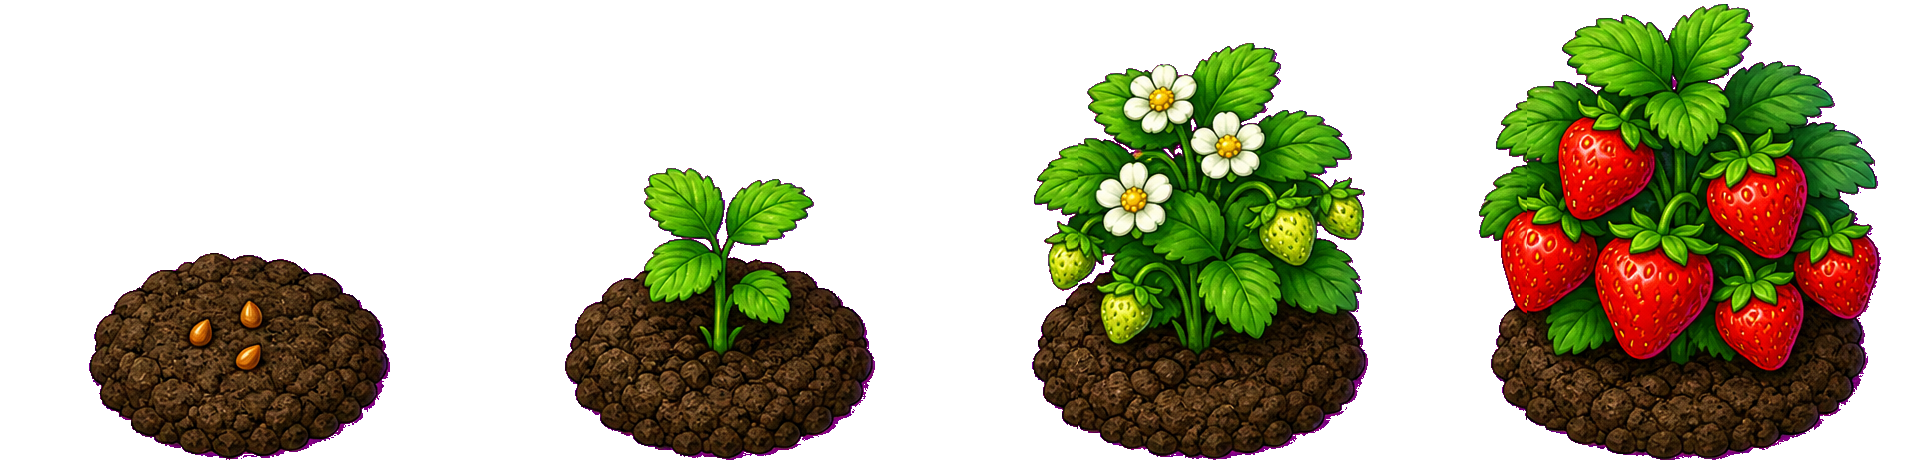
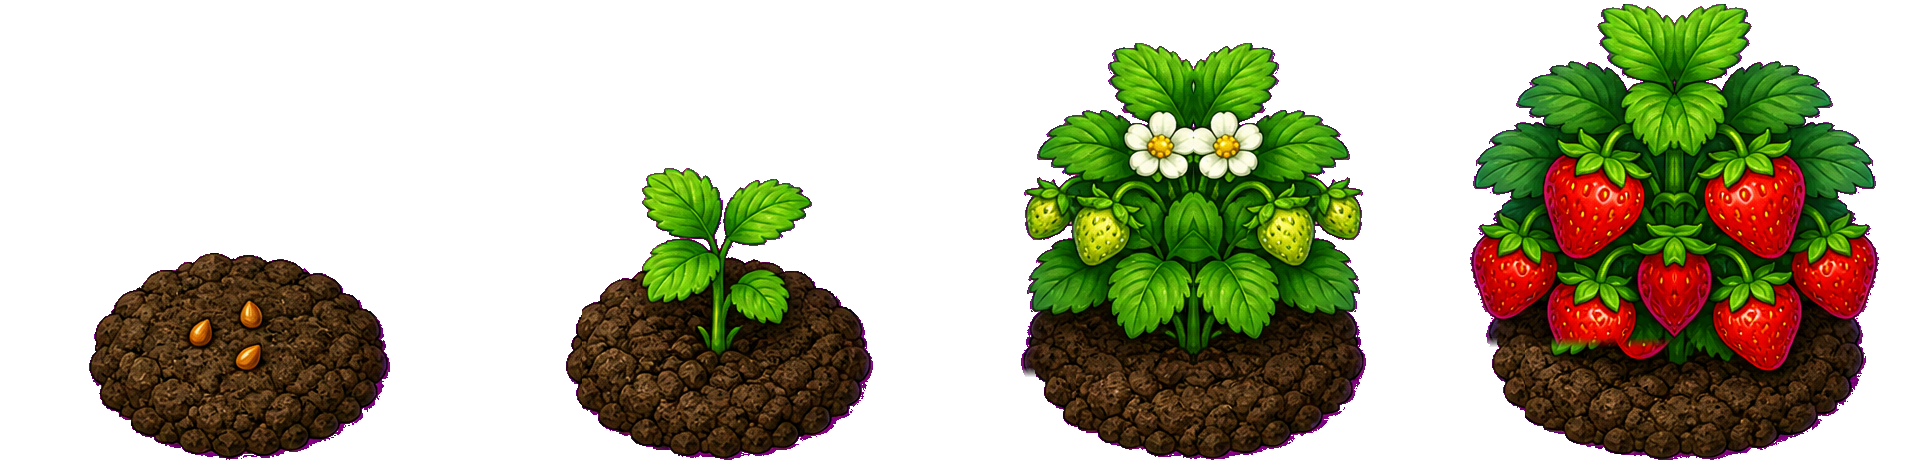
Restore strawberry left crown so garden plants are not haircut.
Packed 392px sheets never stored the upper-left leaves; scraps were only
the lower overflow. Rebuild 480px cells, close the packing seam, and
mirror the intact right crown so both sides of the bush are full foliage.
Cache-bust the sheet URLs so the live player loads the 1920-wide textures.

Changed region(s): [[0.75, 0.0, 1.0, 0.9957], [0.5312, 0.0905, 0.7188, 0.9957], [0.2812, 0.3621, 0.4688, 0.9957]]

diff --git a/apps/player/src/pixi/paintedAssets.ts b/apps/player/src/pixi/paintedAssets.ts
@@ -5,7 +5,8 @@ export const CROP_STAGE_FRAMES = 4;
 /**
  * Approved crop sheets: plant + clumpy soil disc as one unit.
  * Four equal padded cells (480). Heights differ. Packed 392-wide sheets
- * stored left foliage in the previous cell; those scraps are restored here.
+ * stored left foliage in the previous cell; scraps are restored and the
+ * strawberry crown is completed so the left side is not a vertical cut.
  */
 export const CROP_SHEET = { width: 1920, frames: 4 } as const;
 export const CROP_FRAME_WIDTH = CROP_SHEET.width / CROP_SHEET.frames;
@@ -72,9 +73,9 @@ export const PAINTED_ART = {
   /** Must stay PNG so eat frames keep a transparent background. */
   cowEat: "/art/painted/cow_eat_sheet.png",
   crops: {
-    corn: "/art/painted/plants/plant_corn_stages.png",
-    strawberry: "/art/painted/plants/plant_strawberry_stages.png",
-    cotton: "/art/painted/plants/plant_cotton_stages.png",
+    corn: "/art/painted/plants/plant_corn_stages.png?cell=480",
+    strawberry: "/art/painted/plants/plant_strawberry_stages.png?cell=480",
+    cotton: "/art/painted/plants/plant_cotton_stages.png?cell=480",
   },
 } as const;
 

diff --git a/apps/player/src/screens/GardenQa.tsx b/apps/player/src/screens/GardenQa.tsx
@@ -45,16 +45,24 @@ function qaPlots(pack: string): PublicPlot[] {
   if (pack === "flowers") {
     return Array.from({ length: 9 }, (_, slot) => plot(slot, 2, 3));
   }
-  // Matches the annotated Willow screenshot mix: corn, flowering berry, sprouts.
+  // Annotated Willow mix: ripe corn, flowering center strawberry, two sprouts.
+  if (pack === "willow-full") {
+    return [
+      plot(0, 1, 4, true),
+      plot(1, 1, 3),
+      plot(2, 1, 2),
+      plot(3, 3, 2),
+      plot(4, 2, 3),
+      plot(5, 3, 3),
+      plot(6, 1, 2),
+      plot(7, 2, 2),
+      plot(8, 1, 4, true),
+    ];
+  }
   return [
     plot(0, 1, 4, true),
-    plot(1, 1, 3),
-    plot(2, 1, 2),
-    plot(3, 3, 2),
     plot(4, 2, 3),
-    plot(5, 3, 3),
     plot(6, 1, 2),
     plot(7, 2, 2),
-    plot(8, 1, 4, true),
   ];
 }

diff --git a/apps/player/src/pixi/paintedAssets.test.ts b/apps/player/src/pixi/paintedAssets.test.ts
@@ -34,9 +34,10 @@ test("approved crop sheets are 1920-wide unpacked soil+plant cells", () => {
   assert.equal(CROP_SHEET_HEIGHT.corn, 854);
   assert.equal(CROP_SHEET_HEIGHT.strawberry, 464);
   assert.equal(CROP_SHEET_HEIGHT.cotton, 623);
-  assert.ok(PAINTED_ART.crops.corn.endsWith(".png"));
-  assert.ok(PAINTED_ART.crops.strawberry.endsWith(".png"));
-  assert.ok(PAINTED_ART.crops.cotton.endsWith(".png"));
+  assert.ok(PAINTED_ART.crops.corn.includes("plant_corn_stages.png"));
+  assert.ok(PAINTED_ART.crops.strawberry.includes("plant_strawberry_stages.png"));
+  assert.ok(PAINTED_ART.crops.cotton.includes("plant_cotton_stages.png"));
+  assert.ok(PAINTED_ART.crops.strawberry.includes("cell=480"));
 });
 
 test("crop disc pivot sits inside the soil mound, not the cell midpoint leftover", () => {

diff --git a/apps/player/src/pixi/GardenScene.ts b/apps/player/src/pixi/GardenScene.ts
@@ -390,6 +390,7 @@ class PlotNode {
   debug() {
     const frame = this.plant.texture.frame;
     const orig = this.plant.texture.orig;
+    const source = this.plant.texture.source;
     const world = this.plant.getGlobalPosition();
     const mound = this.root.getGlobalPosition();
     const visibleSprites = this.root.children.filter((c) => c instanceof Sprite && c.visible).length;
@@ -397,6 +398,7 @@ class PlotNode {
       slot: this.slot,
       visible: this.plant.visible,
       spritesOnPlot: visibleSprites,
+      sheet: { w: source.width, h: source.height },
       frame: { x: frame.x, y: frame.y, w: frame.width, h: frame.height },
       orig: { x: orig.x, y: orig.y, w: orig.width, h: orig.height },
       anchor: { x: this.plant.anchor.x, y: this.plant.anchor.y },

diff --git a/scripts/unpack-crop-sheets.py b/scripts/unpack-crop-sheets.py
@@ -77,9 +77,11 @@ def reconstruct(orig: Image.Image, body: Image.Image) -> list[list[tuple[int, in
         if scrap_px and body_px:
             scrap_right = max(p[0] for p in scrap_px)
             body_left = min(p[0] for p in body_px)
+            # Overlap the cut so the old packing seam is not a visible wall.
             gap = body_left - scrap_right - 1
-            if gap > 0:
-                scrap_px = [(x + gap, y, rgba) for x, y, rgba in scrap_px]
+            shift = gap + 3
+            if shift != 0:
+                scrap_px = [(x + shift, y, rgba) for x, y, rgba in scrap_px]
         plants.append(scrap_px + body_px)
     return plants
 
@@ -136,6 +138,46 @@ def measure_disc(cell: Image.Image) -> dict:
     return {"x": round(cx), "y": round(cy), "d": int(d), "bbox": [x0, y0, x1, y1]}
 
 
+def restore_left_foliage(cell: Image.Image, name: str, index: int) -> Image.Image:
+    """Packed sheets discarded upper-left strawberry leaves (scraps were lower-only).
+
+    Mirror the intact right crown across the soil-disc x into transparent
+    pixels so both sides of the bush read as full foliage.
+    """
+    if name != "strawberry" or index < 2:
+        return cell
+    disc = measure_disc(cell)
+    w, h = cell.size
+    src_img = cell.copy()
+    src = src_img.load()
+    out = cell.copy()
+    dst = out.load()
+    cx = disc["x"]
+    # Down to just above the soil disc so hanging berries are included.
+    y_max = min(h, max(1, int(disc["y"] - 12)))
+    feather = 10
+    filled = 0
+    for y in range(0, min(h, y_max + feather)):
+        # Fully replace the left crown so the old packing wall is not a seam.
+        fade = 1.0
+        if y >= y_max:
+            fade = 1.0 - (y - y_max + 1) / feather
+        for x in range(0, cx):
+            mx = 2 * cx - x
+            if mx < 0 or mx >= w:
+                continue
+            pix = src[mx, y]
+            if fade >= 0.999:
+                dst[x, y] = pix
+                filled += 1
+            elif pix[3] >= 20 or dst[x, y][3] >= 20:
+                a = tuple(int(dst[x, y][i] * (1 - fade) + pix[i] * fade) for i in range(4))
+                dst[x, y] = a
+                filled += 1
+    print(f"  {name} {index}: replaced left crown across x={cx} (y<{y_max}, {filled} px)")
+    return out
+
+
 def pack_crop(name: str, spec: dict) -> dict:
     rel = spec["repo"]
     orig = git_file(ORIG_REV, rel)
@@ -160,6 +202,8 @@ def pack_crop(name: str, spec: dict) -> dict:
         oy = max(0, min(h - bh, oy))
         sheet.paste(blob, (i * CELL_NEW + ox, oy), blob)
         cell = sheet.crop((i * CELL_NEW, 0, (i + 1) * CELL_NEW, h))
+        cell = restore_left_foliage(cell, name, i)
+        sheet.paste(cell, (i * CELL_NEW, 0))
         disc = measure_disc(cell)
         discs.append(disc)
         frames.append(
